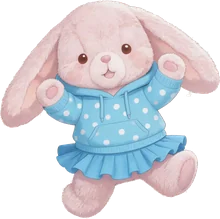
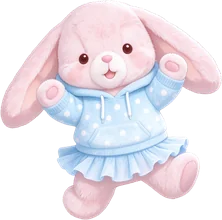
阿贝贝衣服换豆包新图（高清1000px）：小熊连体睡衣、红格子裙和毛毛斗篷、灯芯绒背带裙、草莓吊带裙、蕾丝边小白裙、蓝波点卫衣小短裙
Claude-Session: https://claude.ai/code/session_01MjwmSstjUpC14ZneuiUhf9

diff --git a/data/outfits.js b/data/outfits.js
@@ -11,13 +11,13 @@ const OUTFITS=[
   {"id": "o09", "name": "红腰封蝴蝶结裙", "price": 20, "dad": "白裙子，红腰封，红蝴蝶结，很精神的一件。穿上它，像要去台上表演。", "story": "阿贝贝穿上红腰封，站得笔直，觉得自己要去做一件很了不起的事。\n可是家里没有舞台。\n她在屋里转了一圈，最后站在厨房门口。\n爸爸在做晚饭。案板上放着青菜和土豆，锅里的水刚开始冒小泡泡，抽油烟机呜呜地响。\n阿贝贝从筷子筒里抽出一根筷子，举起来。\n\"开始了。\"\n爸爸回头看了她一眼，没懂，但还是点了点头。\n她把筷子往下一点。\n爸爸刚好切下第一刀。咚。\n她把筷子往右一挥。\n水壶刚好叫了起来。呜——\n她把筷子画了一个圈。\n爸爸把土豆丝倒进锅里，滋啦——一大声，白色的烟腾起来。\n阿贝贝的眼睛亮了。\n她开始认真地指挥。切菜要快一点，咚咚咚咚，她的筷子就点得快一点。炒菜要大声，她就把筷子举得高高的。盖上锅盖焖一会儿，屋里突然安静了，她就把筷子放平，等着，一动不动，像在听一个很长很长的休止符。\n爸爸慢慢发现了。他开始配合她。她点一下，他才切一刀。她画圈，他才翻一下锅。\n最后一道菜出锅的时候，她把筷子高高举起来，停在半空中。\n爸爸把盘子放在桌上。\n她把筷子收回来，贴在腰封上，鞠了一个躬。红色的蝴蝶结垂下来，晃了晃。\n爸爸鼓掌。\n阿贝贝站在厨房门口，听着那几下掌声，觉得这是她听过最好听的一首曲子。\n然后她把指挥棒放回筷子筒，坐下吃饭了。", "lines": ["\"今天厨房的曲子是炒青菜。\"", "\"切菜要快一点，咚咚咚咚！\"", "\"红腰封一系上，我就是指挥家。\""]},
   {"id": "o10", "name": "白衬衫黑百褶背带裙", "price": 12, "dad": "像上学穿的。白衬衫，黑色百褶裙。穿上以后，可以假装自己是一个很认真读书的小兔子。", "story": "阿贝贝穿着白衬衫和百褶裙，搬了一块小黑板放在客厅中间。\n\"爸爸，上课了。\"\n爸爸坐在小板凳上，膝盖抬得高高的，有点挤。\n\"今天学什么。\"\n\"学怎么当一只兔子。\"\n她在黑板上画了一只兔子，耳朵画得比身体还长。\n\"第一课，耳朵。\"\n她转过身，把自己的耳朵竖起来，又放下来。\n\"开心的时候竖起来。不开心的时候放下来。你试试。\"\n爸爸没有长耳朵。他想了想，把两只手放在头顶，竖起来。\n\"不对，太直了。要软一点。\"\n爸爸把手弯了一点。\n\"嗯，还行。\"\n\"第二课，蹦。\"\n她蹦了一下。百褶裙跟着往上一翻，像一把突然撑开的小伞。\n爸爸站起来，也蹦了一下。地板响了一声。\n阿贝贝皱着眉头，在小本子上写了什么。\n\"第三课，吃东西。要用门牙，一点一点地啃，不能一口吞。\"\n她递给爸爸一根胡萝卜。爸爸用门牙啃了一小口，很认真地嚼。\n阿贝贝看着他啃，看了很久，突然有点想笑，又憋住了，因为老师不能笑。\n下课的时候，她把小本子撕下来一页，递给爸爸。\n上面写着：耳朵，及格。蹦，太响了。啃胡萝卜，好。总分：不及格。\n爸爸看着那张纸。\n\"为什么不及格。\"\n\"因为你不是兔子。\"\n爸爸没说话，把纸折好，放进口袋里。\n晚上爸爸去洗澡的时候，阿贝贝偷偷从他口袋里把那张纸拿出来，把\"不\"字涂掉了。\n涂了好几遍，涂成一个黑黑的小方块。", "lines": ["\"上课了！今天学耳朵。\"", "\"百褶裙蹦起来像一把小伞。\"", "\"爸爸今天的作业是啃胡萝卜。\""]},
   {"id": "o11", "v": 3, "name": "橡果丝绒小裙", "price": 15, "dad": "咖啡色的丝绒叠着奶白的纱，领口一个丝绒蝴蝶结，裙子上缀着小橡果和珍珠，口袋里还藏了一颗橡果。秋天穿的，口袋里装点什么都好。", "story": "阿贝贝在裙子口袋里摸到一颗橡果。\n小小的，圆圆的，戴着一顶格子花纹的小帽子，摸上去有一点凉。\n她把它捧在手心里，翻过来翻过去地看。\n\"爸爸，这是什么。\"\n\"橡果。\"\n\"橡果是什么。\"\n\"是橡树的种子。种到土里，以后会长成一棵橡树。\"\n阿贝贝低头看着手心里那么小的一颗，想不明白。这么小的东西，怎么会变成一棵树呢？树那么高，比房子还高，它要怎么从这里面钻出来？\n她想了很久，得出一个结论：这是一棵树的小孩。\n那它的妈妈在哪里呢？\n她不知道。她只知道它现在在她的口袋里，离妈妈很远。\n那天下午，她找来一个小花盆，装满土，在中间挖了一个小坑，把橡果放进去，戴着帽子的那一头朝上。她想，它一定想看看外面。\n然后她把土轻轻盖上，浇了一点点水，怕它呛到。\n第二天，她蹲在花盆前面看。什么都没有。\n第三天，也没有。\n第五天，土上面长出了一点点绿色的东西。她激动地凑过去看，是一根草。不是它。\n她有点失望，但没有把草拔掉，因为草也是好不容易才长出来的。\n爸爸说，橡果要很久很久才会发芽，可能要等到明年春天。\n\"明年春天是多久。\"\n\"等冬天过完。\"\n阿贝贝看着花盆，土是安安静静的，什么声音都没有。\n她觉得它可能在下面想事情。想妈妈，想外面，想自己以后要长成什么样子。\n那就让它慢慢想吧。\n她每天放学回来，还是会去花盆前面蹲一会儿。不说话，就是蹲着。", "lines": ["\"花盆里还没动静。它在慢慢想。\"", "\"丝绒裙子的口袋里，以前住着一颗橡果。\"", "\"等冬天过完，它就出来了。\""]},
-  {"id": "o12", "name": "小熊连体睡衣", "price": 12, "dad": "软软的、厚厚的，帽子上有两只小熊耳朵。睡觉穿的。穿上以后就要乖乖睡觉了，不许赖床。", "story": "阿贝贝把拉链一路拉到下巴，然后把帽子戴上。\n小熊耳朵立在头顶，她自己的兔耳朵从帽子两边垂下来。\n她跑去照镜子，看了一会儿，笑得眼睛都眯起来了。\n\"我现在有四只耳朵！\"\n\"那你是兔子还是小熊。\"\n她想了想。\n\"兔熊。\"\n她爬上床，钻进被子，被子外面只露出两只小熊耳朵。\n\"爸爸，晚安。\"\n\"晚安。\"\n第二天早上七点，闹钟响了。\n被子里没有动静。\n七点十分，爸爸去掀被子。\n被子里的兔熊把帽子往下一拉，盖住了整张脸。\n\"兔熊……在冬眠。\"", "lines": ["\"兔熊来了！四只耳朵！\"", "\"这件好暖和，我不想脱了。\"", "\"冬眠中……请五分钟后再叫我。\""]},
-  {"id": "o13", "name": "红格子裙和毛毛斗篷", "price": 20, "dad": "冬天的斗篷，边上都是白白的毛。里面是红格子的小裙子。出门的时候披上，风就吹不到你了。", "story": "阿贝贝披上斗篷的那一刻，安静了。\n毛毛的领子围着她的脖子，软软的，暖暖的。斗篷长长的，一直盖到小腿。\n她裹紧了一点，又裹紧了一点。\n\"爸爸。\"\n\"嗯。\"\n\"我现在像一个要去很远的地方的人。\"\n\"要去哪里。\"\n她看着窗外。窗外什么都没有，只有树和天。\n\"去外婆家。\"\n\"你没有外婆。\"\n\"那就去……去一个有外婆的地方。\"\n她裹着斗篷，在门口站了一会儿，没有出门。\n后来她回到屋里，在窗边坐下，斗篷铺开在地上，像一朵白色的云。\n\"今天不去了。\"她说，\"在这里也很暖和。\"", "lines": ["\"斗篷裹紧，风吹不到我。\"", "\"今天也没去外婆家。在这里就很好。\"", "\"红格子，像过年的桌布。\""]},
-  {"id": "o14", "name": "灯芯绒背带裙", "price": 12, "dad": "棕色的灯芯绒，摸起来一道一道的。秋天的颜色，跟落叶一样。", "story": "阿贝贝发现灯芯绒可以用爪子刮。\n从上往下刮，沙沙沙。从下往上刮，颜色会变深一点。\n她坐在地上，一道一道地刮，刮出了一条深色的线。又刮了一条。又刮了一条。\n\"我在画画。\"\n过了一会儿，裙子上出现了一个歪歪扭扭的图案。\n\"这是什么。\"\n\"这是你。\"\n爸爸看了看。是一个圆圈，上面两根线。\n\"……我头上有两根线吗。\"\n\"那是你的头发。\"\n\"我没有那么少的头发。\"\n她看了看，用爪子一抹，图案没了。\n\"那我重新画。\"\n她又刮了一个圆圈，这次上面画了好多好多根线，乱糟糟的，像一颗海胆。\n\"现在像了。\"", "lines": ["\"沙沙沙，我在刮裙子。\"", "\"棕色的，像一片很大的落叶。\"", "\"今天在裙子上画了一只猫。\""]},
-  {"id": "o15", "name": "草莓吊带裙", "price": 8, "dad": "夏天的小吊带裙，上面全是红红的草莓，白底，很清爽。下过雨可以穿出去走走，记得避开大水坑。", "story": "下了一下午的雨，傍晚停了。\n空气里全是湿湿的、凉凉的味道，有一点泥土，有一点青草。屋檐还在滴水，嗒，嗒，嗒。\n阿贝贝穿着草莓裙子跑出去。地上到处都是水坑，大大小小的，亮亮的。\n她踩了第一个。啪。水花溅起来，打湿了裙子下摆，有两颗草莓变成了深红色。\n她又踩了第二个，第三个。啪，啪。每一个都踩得很用力，好像水坑里有什么东西要被她叫醒。\n踩到第七个的时候，她停住了。\n这个水坑很大，很平，一点风都没有。她低头看，里面有一片天。\n天是淡淡的粉色和紫色，有几朵云慢慢地飘着，比真的天还要干净。云的旁边，是一只穿着草莓裙子的兔子，歪着头，正在往下看。\n她抬起一只脚，悬在半空中。\n没有踩下去。\n她慢慢把脚收回来，蹲在水坑边上，抱着膝盖，看着里面的云走。一朵走过去了，又来一朵。\n屋檐的水还在滴，嗒，嗒。远处有人在叫自己家小孩回去吃饭。\n天一点一点暗下来，水坑里的云也一点一点暗下来，最后只剩下一片灰蓝色，和那只蹲着的兔子。\n阿贝贝站起来，绕着水坑走了一圈，轻轻地，没有碰到边。\n回家的路上，她又踩了很多个水坑，啪啪啪的。\n只有那一个，她留着没踩。", "lines": ["\"下过雨了！去踩水坑！……留一个不踩。\"", "\"草莓裙子湿了，草莓变成深红色了。\"", "\"水坑里有一片天。\""]},
-  {"id": "o16", "name": "蕾丝边小白裙", "price": 10, "dad": "简简单单的白裙子，裙边一圈蕾丝，领口一个粉蝴蝶结。干干净净的，像刚洗完澡的你。", "story": "阿贝贝穿上以后，脸红了。\n不知道为什么，她站在镜子前面，看着自己，脸一点一点地红起来。\n\"爸爸。\"\n\"嗯。\"\n\"我好像有点好看。\"\n\"不是有点。\"\n她低下头，用爪子揪了揪裙边的蕾丝，揪完又理平。\n\"你不要看我。\"\n爸爸转过身去。\n过了一会儿。\n\"……你可以看一下。\"\n爸爸转回来。\n她站在那里，两只爪子背在身后，下巴抬着，努力不笑，但嘴角一直往上跑。\n\"就看一下。\"她说，\"看完了要说好看。\"", "lines": ["\"今天穿白裙子，要说好看。\"", "\"蕾丝边，摸起来痒痒的。\"", "\"我又照了一下镜子。还是好看。\""]},
+  {"id": "o12", "v": 2, "name": "小熊连体睡衣", "price": 12, "dad": "软软的、厚厚的，帽子上有两只小熊耳朵。睡觉穿的。穿上以后就要乖乖睡觉了，不许赖床。", "story": "阿贝贝把拉链一路拉到下巴，然后把帽子戴上。\n小熊耳朵立在头顶，她自己的兔耳朵从帽子两边垂下来。\n她跑去照镜子，看了一会儿，笑得眼睛都眯起来了。\n\"我现在有四只耳朵！\"\n\"那你是兔子还是小熊。\"\n她想了想。\n\"兔熊。\"\n她爬上床，钻进被子，被子外面只露出两只小熊耳朵。\n\"爸爸，晚安。\"\n\"晚安。\"\n第二天早上七点，闹钟响了。\n被子里没有动静。\n七点十分，爸爸去掀被子。\n被子里的兔熊把帽子往下一拉，盖住了整张脸。\n\"兔熊……在冬眠。\"", "lines": ["\"兔熊来了！四只耳朵！\"", "\"这件好暖和，我不想脱了。\"", "\"冬眠中……请五分钟后再叫我。\""]},
+  {"id": "o13", "v": 2, "name": "红格子裙和毛毛斗篷", "price": 20, "dad": "冬天的斗篷，边上都是白白的毛。里面是红格子的小裙子。出门的时候披上，风就吹不到你了。", "story": "阿贝贝披上斗篷的那一刻，安静了。\n毛毛的领子围着她的脖子，软软的，暖暖的。斗篷长长的，一直盖到小腿。\n她裹紧了一点，又裹紧了一点。\n\"爸爸。\"\n\"嗯。\"\n\"我现在像一个要去很远的地方的人。\"\n\"要去哪里。\"\n她看着窗外。窗外什么都没有，只有树和天。\n\"去外婆家。\"\n\"你没有外婆。\"\n\"那就去……去一个有外婆的地方。\"\n她裹着斗篷，在门口站了一会儿，没有出门。\n后来她回到屋里，在窗边坐下，斗篷铺开在地上，像一朵白色的云。\n\"今天不去了。\"她说，\"在这里也很暖和。\"", "lines": ["\"斗篷裹紧，风吹不到我。\"", "\"今天也没去外婆家。在这里就很好。\"", "\"红格子，像过年的桌布。\""]},
+  {"id": "o14", "v": 2, "name": "灯芯绒背带裙", "price": 12, "dad": "棕色的灯芯绒，摸起来一道一道的。秋天的颜色，跟落叶一样。", "story": "阿贝贝发现灯芯绒可以用爪子刮。\n从上往下刮，沙沙沙。从下往上刮，颜色会变深一点。\n她坐在地上，一道一道地刮，刮出了一条深色的线。又刮了一条。又刮了一条。\n\"我在画画。\"\n过了一会儿，裙子上出现了一个歪歪扭扭的图案。\n\"这是什么。\"\n\"这是你。\"\n爸爸看了看。是一个圆圈，上面两根线。\n\"……我头上有两根线吗。\"\n\"那是你的头发。\"\n\"我没有那么少的头发。\"\n她看了看，用爪子一抹，图案没了。\n\"那我重新画。\"\n她又刮了一个圆圈，这次上面画了好多好多根线，乱糟糟的，像一颗海胆。\n\"现在像了。\"", "lines": ["\"沙沙沙，我在刮裙子。\"", "\"棕色的，像一片很大的落叶。\"", "\"今天在裙子上画了一只猫。\""]},
+  {"id": "o15", "v": 2, "name": "草莓吊带裙", "price": 8, "dad": "夏天的小吊带裙，上面全是红红的草莓，白底，很清爽。下过雨可以穿出去走走，记得避开大水坑。", "story": "下了一下午的雨，傍晚停了。\n空气里全是湿湿的、凉凉的味道，有一点泥土，有一点青草。屋檐还在滴水，嗒，嗒，嗒。\n阿贝贝穿着草莓裙子跑出去。地上到处都是水坑，大大小小的，亮亮的。\n她踩了第一个。啪。水花溅起来，打湿了裙子下摆，有两颗草莓变成了深红色。\n她又踩了第二个，第三个。啪，啪。每一个都踩得很用力，好像水坑里有什么东西要被她叫醒。\n踩到第七个的时候，她停住了。\n这个水坑很大，很平，一点风都没有。她低头看，里面有一片天。\n天是淡淡的粉色和紫色，有几朵云慢慢地飘着，比真的天还要干净。云的旁边，是一只穿着草莓裙子的兔子，歪着头，正在往下看。\n她抬起一只脚，悬在半空中。\n没有踩下去。\n她慢慢把脚收回来，蹲在水坑边上，抱着膝盖，看着里面的云走。一朵走过去了，又来一朵。\n屋檐的水还在滴，嗒，嗒。远处有人在叫自己家小孩回去吃饭。\n天一点一点暗下来，水坑里的云也一点一点暗下来，最后只剩下一片灰蓝色，和那只蹲着的兔子。\n阿贝贝站起来，绕着水坑走了一圈，轻轻地，没有碰到边。\n回家的路上，她又踩了很多个水坑，啪啪啪的。\n只有那一个，她留着没踩。", "lines": ["\"下过雨了！去踩水坑！……留一个不踩。\"", "\"草莓裙子湿了，草莓变成深红色了。\"", "\"水坑里有一片天。\""]},
+  {"id": "o16", "v": 2, "name": "蕾丝边小白裙", "price": 10, "dad": "简简单单的白裙子，裙边一圈蕾丝，领口一个粉蝴蝶结。干干净净的，像刚洗完澡的你。", "story": "阿贝贝穿上以后，脸红了。\n不知道为什么，她站在镜子前面，看着自己，脸一点一点地红起来。\n\"爸爸。\"\n\"嗯。\"\n\"我好像有点好看。\"\n\"不是有点。\"\n她低下头，用爪子揪了揪裙边的蕾丝，揪完又理平。\n\"你不要看我。\"\n爸爸转过身去。\n过了一会儿。\n\"……你可以看一下。\"\n爸爸转回来。\n她站在那里，两只爪子背在身后，下巴抬着，努力不笑，但嘴角一直往上跑。\n\"就看一下。\"她说，\"看完了要说好看。\"", "lines": ["\"今天穿白裙子，要说好看。\"", "\"蕾丝边，摸起来痒痒的。\"", "\"我又照了一下镜子。还是好看。\""]},
   {"id": "o17", "name": "鹅黄碎花长袖裙", "price": 12, "dad": "鹅黄色的，长袖子，上面有一簇一簇的小花。早春有点凉的时候穿刚刚好。", "story": "鹅黄色的裙子袖子很长，盖住了阿贝贝的爪子，只露出一点点尖。\n她甩了甩袖子，觉得很好玩，像两条软软的黄尾巴。\n厨房里很热。爸爸在炖汤，锅盖一跳一跳的，白汽一阵一阵地往上冒，窗户玻璃都蒙上了一层雾。\n阿贝贝站在厨房门口，看见爸爸的额头上有汗，一颗，顺着眉毛旁边滑下来。他两只手都在忙，一只拿着勺子，一只扶着锅，顾不上擦。\n她看了一会儿，搬来一张小板凳。\n她站上去，还是够不着。又踮起脚。\n她把长袖子往上一甩，用袖口轻轻地，在爸爸额头上按了一下。\n爸爸愣住了，低头看她。\n她没说话，又按了一下，把那颗快掉到眼睛里的汗也接住了。\n袖口湿了一小块，颜色变深了，像一朵小小的、深黄色的云。\n\"弄脏你的新裙子了。\"爸爸说。\n阿贝贝低头看了看那一块。\n\"没有弄脏。\"她说，\"是盖了一个章。\"\n她从板凳上下来，站在旁边，袖子垂着，看着锅里的汤咕嘟咕嘟地冒泡。\n那天晚上，汤很好喝。\n她洗裙子的时候，特意把那个袖口留到最后才洗。", "lines": ["\"袖子长长的，可以帮爸爸擦汗。\"", "\"鹅黄色，像早上的太阳。\"", "\"袖口上那个章，洗掉了。……但我记得。\""]},
-  {"id": "o18", "name": "蓝波点卫衣小短裙", "price": 10, "dad": "蓝色卫衣，白色的圆点点，下面一条小短裙。蹦蹦跳跳的时候穿。", "story": "阿贝贝穿上以后，就停不下来了。\n她跳了一下。又跳了一下。两只爪子举起来，一条腿抬起来，裙子飞起来。\n\"爸爸！我在蹦！\"\n\"看到了。\"\n\"你也蹦！\"\n\"爸爸不蹦。\"\n她蹦到爸爸面前，仰着头，一边蹦一边看着他。\n蹦。蹦。蹦。\n\"……就一下。\"爸爸说。\n爸爸跳了一下。\n阿贝贝停住了，张大嘴巴看着他，然后笑得滚到了地上，在地上打滚，卫衣上的白点点一圈一圈地转。\n\"爸爸蹦了！爸爸蹦了！\"\n她笑了很久。后来每次穿这件，她都要求爸爸再蹦一下。", "lines": ["\"蹦！蹦！爸爸你也蹦！\"", "\"白点点在转圈圈。\"", "\"今天蹦了一百下。……十下。\""]},
+  {"id": "o18", "v": 2, "name": "蓝波点卫衣小短裙", "price": 10, "dad": "蓝色卫衣，白色的圆点点，下面一条小短裙。蹦蹦跳跳的时候穿。", "story": "阿贝贝穿上以后，就停不下来了。\n她跳了一下。又跳了一下。两只爪子举起来，一条腿抬起来，裙子飞起来。\n\"爸爸！我在蹦！\"\n\"看到了。\"\n\"你也蹦！\"\n\"爸爸不蹦。\"\n她蹦到爸爸面前，仰着头，一边蹦一边看着他。\n蹦。蹦。蹦。\n\"……就一下。\"爸爸说。\n爸爸跳了一下。\n阿贝贝停住了，张大嘴巴看着他，然后笑得滚到了地上，在地上打滚，卫衣上的白点点一圈一圈地转。\n\"爸爸蹦了！爸爸蹦了！\"\n她笑了很久。后来每次穿这件，她都要求爸爸再蹦一下。", "lines": ["\"蹦！蹦！爸爸你也蹦！\"", "\"白点点在转圈圈。\"", "\"今天蹦了一百下。……十下。\""]},
   {"id": "o19", "v": 3, "name": "小熊鹅黄小裙", "price": 8, "dad": "鹅黄色的小裙子，前面有一只小熊。小熊是来陪你的。", "story": "阿贝贝穿好以后，低头看着肚子上那只小熊。\n小熊也看着她。\n\"你好。\"\n小熊没说话，一直在笑。\n\"你为什么一直笑。\"\n小熊还是笑。\n她想了想，也笑了一下。\n\"好吧。那我们一起笑。\"\n那一整天，她走到哪里都低着头跟小熊说话。吃饭的时候问小熊吃不吃。午睡的时候把小熊那一面朝上，怕压到它。\n晚上脱衣服的时候，她把裙子叠好，小熊朝外。\n\"明天见。\"\n她拍了拍小熊的脑袋，才钻进被子里。", "lines": ["\"小熊今天也在笑。\"", "\"我和小熊一起吃了午饭。\"", "\"叠衣服的时候，小熊要朝外。\""]},
   {"id": "o20", "name": "运动会国王", "price": 30, "dad": "金色的运动服，红色的国王披风，还有一顶皇冠。爸爸也不知道这是去比赛还是去登基。全店最贵的一件，买之前想清楚：穿上它，就要对整个兔子王国负责。", "story": "阿贝贝戴上皇冠的那一刻，表情就变了。\n嘴巴抿成一条线，下巴抬起来，眼睛看着前方。\n她慢慢转过身，披风在身后甩开，小金铃铛叮铃叮铃地响。\n\"本王，\"她说，\"今日要去参加运动会。\"\n\"国王也要跑步吗。\"\n\"国王什么都要第一。\"\n她走到起跑线——其实是地板上一条缝——蹲下来，摆好姿势。皇冠往前一滑，差点掉下来，她赶紧用一只爪子扶住。\n\"预备——\"\n她冲了出去。\n跑了三步，披风缠住了腿。\n她摔倒了，脸朝下，趴在地上，披风盖住了整只兔子，只有皇冠还稳稳地扣在头上，金光闪闪。\n屋子里安静了一会儿。\n披风底下传出一个闷闷的声音：\n\"……本王，在休息。\"\n过了很久，她才从披风里钻出来，坐起来，把皇冠扶正，拍了拍金色短裤上的灰。\n\"今天的运动会，\"她宣布，\"本王是第一名。\"\n\"可是只有你一个人参加。\"\n\"所以是第一名。\"\n她站起来，甩了一下披风，铃铛又叮铃叮铃地响。然后她一瘸一拐、非常威严地，走去吃饭了。", "lines": ["\"本王驾到。请鼓掌。\"", "\"国王今天也是第一名。因为只有国王。\"", "\"皇冠很重，但是本王扛得住。\"", "\"披风不许缠腿。这是命令。\""]},
   {"id": "o21", "name": "提灯小宫女", "price": 22, "dad": "蓝和鹅黄叠在一起的襦裙，头上一支小花簪，手里一盏灯笼。灯笼是会亮的。拿好，别走丢了。", "story": "那盏灯笼是跟裙子一起来的。\n纸糊的，圆圆的，底下垂着一根浅蓝色的穗子。阿贝贝提着它在屋里走了两圈，嫌屋里太亮，看不出它亮不亮，就把自己关进了衣柜。\n衣柜里很黑。灯笼一下子就亮了，暖黄色的，把她的爪子照成了橘子的颜色。\n她盯着那点光看。看着看着，光好像大了一点。又大了一点。衣柜的门缝里漏进来一阵风，风里有一股她没闻过的味道，像芝麻，像烤焦的面，像很多很多人身上的热气。\n她推开门。\n外面不是家。\n外面是一条很宽很宽的街，宽到她站在这边，看不清那边的人脸。街两边全是灯。挂在屋檐下的，绑在竹竿上的，捧在小孩手里的，飘在河面上的。远处有一棵树，不是长叶子的树，是长灯的树，一层一层往上堆，堆到比城墙还高，亮得像是谁把月亮拆开了，挂在了枝头上。\n人好多。\n有挑着担子的老伯，担子一头是饼，一头是小板凳，走累了就坐下来，饼就卖给坐在旁边的人。有长着大胡子、眼睛是绿色的商人，牵着骆驼，骆驼脖子上的铃铛跟她的穗子一起晃。有穿着跟她差不多的裙子的姐姐们，手挽着手，笑声一串一串地往天上飘。有一个很老很老的奶奶，被孙子扶着，走一步，看一盏灯，走一步，再看一盏。\n没有人在赶路。所有人都慢慢地走，好像这条街不通往任何地方，走在上面就已经到了。\n阿贝贝被人群推着往前。她有点怕，把灯笼抱紧了一点。\n一个卖饼的大婶低头看见了她。\n\"哟，哪个宫里跑出来的小宫女，这么小一只。\"\n大婶掰了半块饼给她。饼是热的，上面撒着芝麻，咬下去咔嚓一声。阿贝贝想说谢谢，可是嘴里塞满了，只能用力点头。大婶笑了，又低头去招呼下一个人。\n她一边嚼一边走，走到了一座桥上。\n桥上站着一个守城的兵，盔甲上全是灯的影子。他没在看人，在看天。天上有一只孔明灯，慢慢地、慢慢地往上升。\n\"你在看什么。\"阿贝贝问。\n\"看它飞到哪里。\"兵说，\"今晚城门不关。灯飞多远都行，人走多晚都行。\"\n\"为什么不关？\"\n兵想了想，好像这个问题他从来没想过。\n\"因为没什么好怕的。\"\n阿贝贝顺着他的目光往下看。从桥上看下去，整座城都是亮的。一格一格的坊里亮着，弯弯的河上亮着，城墙外面那一大片黑黑的田野上，也有一点一点的光，是种地的人家，门口也挂了灯。\n她忽然明白了。这么多灯，不是为了好看。是每一盏灯底下都有一户人家，每户人家今天都吃饱了饭，穿上了新衣服，出门来逛街，不担心回家的路。\n她低头看自己的灯笼。在这么多灯里面，它小得几乎看不见。\n可它也是其中的一盏。\n她把灯笼举起来，举得高高的，跟所有人的灯放在一起。\n不知道过了多久，灯笼的光又开始变大，大到把整条街都裹了进去。她眨了一下眼睛，闻到了家里洗衣液的味道。\n她坐在衣柜里，灯笼还亮着，嘴边还沾着两粒芝麻。\n她出来的时候，爸爸正在收衣服。\n\"去哪儿了？\"\n\"去了一个很久很久以前的地方。\"阿贝贝说，\"那里晚上不关门。\"\n爸爸停下来，看着她。他没问是真的还是假的。他把她嘴边的芝麻摘下来，放在手心里看了看，然后问：\n\"那里的人过得好吗。\"\n阿贝贝想了很久。\n\"都很好。\"\n那天晚上，她把灯笼挂在了窗户边上，没有关。\n爸爸问为什么。\n\"给晚回家的人照路。\"她说，\"那里的人都是这样的。\"", "lines": ["\"灯笼亮着，就不怕黑。\"", "\"那里的饼有芝麻，咔嚓一声。\"", "\"很久很久以前，大家也很好地过日子。\"", "\"今天也给晚回家的人留一盏灯。\""]},

diff --git a/index.html b/index.html
@@ -596,7 +596,7 @@
 <script src="./data/game2048-words.js?v=fe6c016b"></script>
 <script src="./js/g2048.js?v=ba48fdd0"></script>
 <script src="./js/games.js?v=7d3f83b5"></script>
-<script src="./data/outfits.js?v=7c5b725a"></script>
+<script src="./data/outfits.js?v=7ba48cfb"></script>
 <script src="./js/wardrobe.js?v=787747f8"></script>
 <script src="./js/avatar.js?v=d05e40f4"></script>
 <!-- 猪肚记 overlay (body层级) -->
